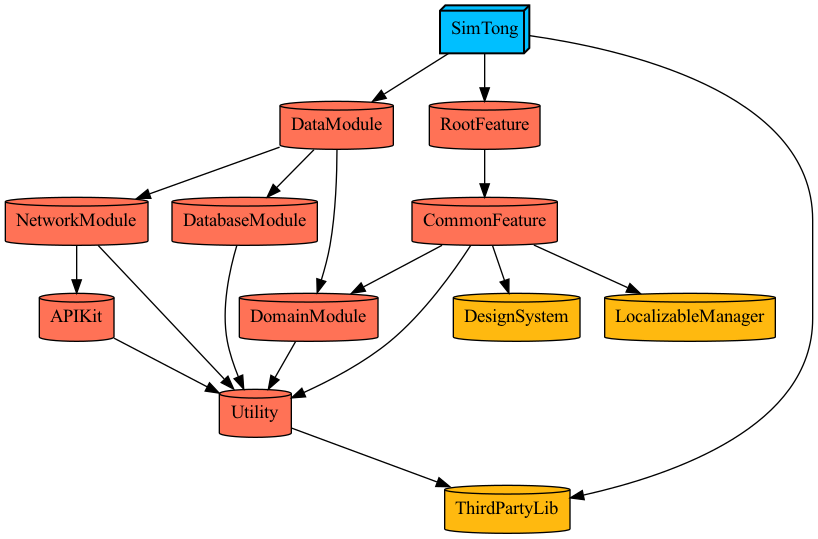
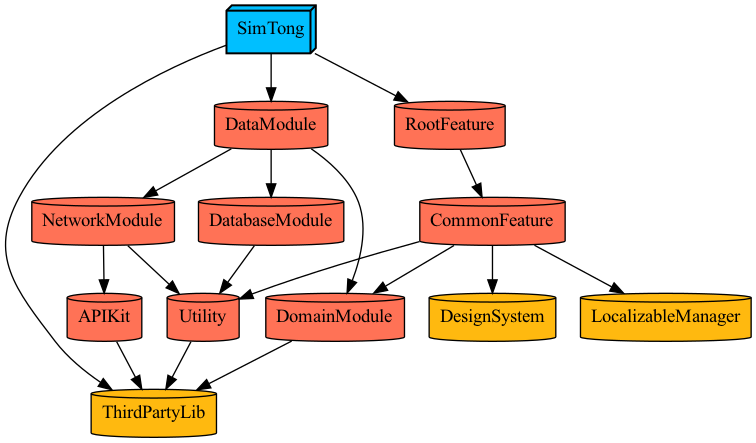
:building_construction: :: 모듈 아키텍쳐링

diff --git a/Projects/Services/DomainModule/Project.swift b/Projects/Services/DomainModule/Project.swift
@@ -5,6 +5,6 @@ let project = Project.makeModule(
     name: "DomainModule",
     product: .staticFramework,
     dependencies: [
-        .Project.Module.Utility
+        .Project.Module.ThirdPartyLib
     ]
 )

diff --git a/Projects/Services/APIKit/Project.swift b/Projects/Services/APIKit/Project.swift
@@ -5,6 +5,6 @@ let project = Project.makeModule(
     name: "APIKit",
     product: .staticFramework,
     dependencies: [
-        .Project.Module.Utility
+        .Project.Module.ThirdPartyLib
     ]
 )
